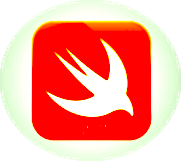
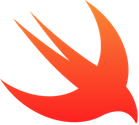
change skills images

diff --git a/public/src/app/home/skills/skills.component.html b/public/src/app/home/skills/skills.component.html
@@ -1,39 +1,56 @@
 <h1>SKILLS</h1>
 <div class="">
-  <div class="languages">
-    <img src="/assets/python.png"  class="rounded-circle" alt="">
-    <img src="/assets/swift.png" class="rounded-circle" alt="">
-    <img src="/assets/javascript.png" class="rounded-circle" alt="">
-    <img src="/assets/typescript.png" class="rounded-circle" alt="">
-    <img src="/assets/ruby.png" class="rounded-circle"alt="">
+  <h2>Languages</h2>
+  <div class="container languages">
+    <div class="logo">
+        <img src="/assets/python.png"   alt="">
+    </div>
+    <div class="logo">
+        <img src="/assets/swift.png"  alt="">
+    </div>
+    <div class="logo">
+        <img src="/assets/JavaScript-logo.png" alt="">
+    </div>
+    <div class="logo">
+        <img src="/assets/typescript.png" alt="">
+    </div>
+    <div class="logo">
+        <img src="/assets/ruby.png" alt="">
+    </div>
+
+
+
   </div>
-  <div class="front-end">
-    <img id="html" src="/assets/html.png" class="rounded-circle" alt="">
+  <h2>Front End</h2>
+  <div class="container front-end">
+    <img id="html" src="/assets/html.png"  alt="">
     <img id="css" src="/assets/css.png" alt="">
-    <img src="/assets/angular.png" class="rounded-circle" alt="">
-    <img id="react" src="/assets/react.png" class="rounded-circle" alt="">
-    <img src="/assets/materialiaze.png"class="rounded-circle" alt="">
-    <img src="/assets/bootstrap.png" class="rounded-circle" alt="">
+    <img src="/assets/angular.png"  alt="">
+    <img src="/assets/materialize.png" alt="">
+    <img src="/assets/bootstrap-logo.png" alt="">
   </div>
-  <div class="backend">
-    <img src="/assets/node.png" class="rounded-circle"alt="">
-    <img src="/assets/firebase.png" class="rounded-circle"alt="">
-    <img src="/assets/flask.png" class="rounded-circle"alt="">
-    <img src="/assets/rails.png" class="rounded-circle" alt="">
-    <img src="/assets/django.png" class="rounded-circle"alt="">
+  <h2>Back End</h2>
+  <div class=" container backend">
+    <img src="/assets/node.png" alt="">
+    <img src="/assets/fire.png" alt="">
+    <img src="/assets/flask.png" alt="">
+    <img src="/assets/rails.png" alt="">
+    <img src="/assets/django.png" alt="">
   </div>
-  <div class="dataBase">
-    <img src="/assets/postgresql-logo.png" class="rounded-circle"alt="">
-    <img src="/assets/mySQL.png" class="rounded-circle"alt="">
-    <img src="/assets/sqlite.png" class="rounded-circle"alt="">
-    <img src="/assets/sqlite.png" class="rounded-circle"alt="">
-    <img src="/assets/mongodb-logo.png" class="rounded-circle" alt="">
+  <h2>DataBases</h2>
+  <div class=" container dataBase">
+    <img src="/assets/postgresql-logo.png" alt="">
+    <img src="/assets/mySQL.png" alt="">
+    <img src="/assets/squile.png" alt="">
+    <img src="/assets/mongoDB.png" alt="">
   </div>
-  <div class="others">
+  <h2>Others</h2>
+  <div class="container others">
     <img src="/assets/github.png" alt="">
     <img src="/assets/ios.png" alt="">
     <img src="/assets/amazon.png" alt="">
     <img src="/assets/git.png" alt="">
+    <img src="/assets/restful.png" alt="">
   </div>
 
 </div>

diff --git a/public/src/app/home/projects/projects.component.html b/public/src/app/home/projects/projects.component.html
@@ -42,5 +42,37 @@
       <div class="image">
         <img  src="assets/smart.png" alt="">
       </div>
+</div>
+<div class="container">
+  <div id="demo" class="carousel slide" data-ride="carousel">
 
+    <!-- Indicators -->
+    <ul class="carousel-indicators">
+      <li data-target="#demo" data-slide-to="0" class="active"></li>
+      <li data-target="#demo" data-slide-to="1"></li>
+      <li data-target="#demo" data-slide-to="2"></li>
+    </ul>
+
+    <!-- The slideshow -->
+    <div class="carousel-inner">
+      <div class="carousel-item active">
+        <img src="assets/smart.png"  alt="Los Angeles">
+      </div>
+      <div class="carousel-item">
+        <img src="assets/smart.png"  alt="Chicago">
+      </div>
+      <div class="carousel-item">
+        <img src="assets/smart.png" alt="New York">
+      </div>
+    </div>
+
+    <!-- Left and right controls -->
+    <a class="carousel-control-prev" href="#demo" data-slide="prev">
+      <span class="carousel-control-prev-icon"></span>
+    </a>
+    <a class="carousel-control-next" href="#demo" data-slide="next">
+      <span class="carousel-control-next-icon"></span>
+    </a>
+
+  </div>
 </div>

diff --git a/public/src/app/home/skills/skills.component.css b/public/src/app/home/skills/skills.component.css
@@ -3,32 +3,43 @@
 }
 h1{
  /*font-family: sans-serif;*/
- text-align: center;
+text-align: center;
 color: #9900ff;
+}
+h2 {
+  text-align: center;
 }
 
 .languages, .backend, .front-end, .dataBase, .others{
-  height: 167px;
+  height: 150px;
   width: 1020px;
   border: 2px solid green;
-  text-align: center;
-  margin-top: 10px;
 }
-/*img {;
-  border: 2px solid black;
-  border-radius: 50px;
+/*img {
+  margin-right: 30px;
+
 }*/
 
-img {
+.backend img {
   margin-right: 20px;
 }
-.front-end img {
+.dataBase img {
   margin-right: 20px;
 }
-#css {
+.others img {
+  margin-right: 20px;
+}
+/*#css {
   margin-left: 21.3px;
 }
 
 #html{
   margin-left: 11px;
+}*/
+.container, .logo {
+  border: 2px solid black;
+}
+.logo {
+  display: inline-block;
+  width: 200px;
 }

diff --git a/public/src/app/home/home.component.html b/public/src/app/home/home.component.html
@@ -28,9 +28,6 @@
     <app-my-story></app-my-story>
   </div>
   <div class="parallax">
-    <div class=" container break">
-      <h1>PROJECTS</h1>
-    </div>
   </div>
   <div class="container">
     <app-projects> </app-projects>

diff --git a/public/src/app/home/projects/projects.component.css b/public/src/app/home/projects/projects.component.css
@@ -25,3 +25,6 @@
   text-align: center;
   color: #9900ff;
  }
+ .container {
+   background-color: black;
+ }
